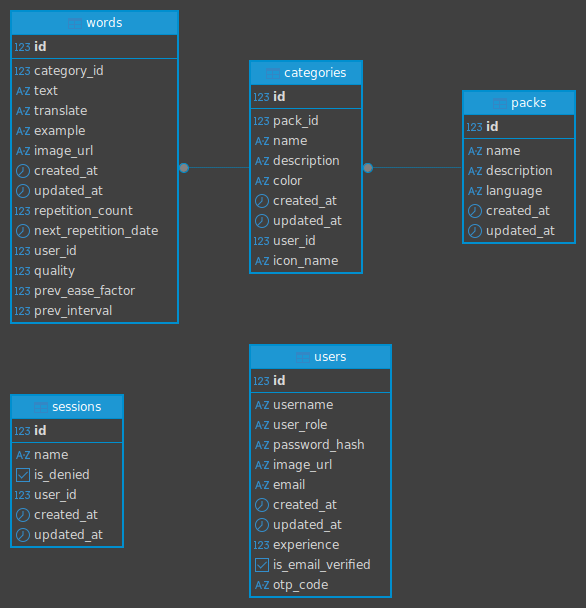
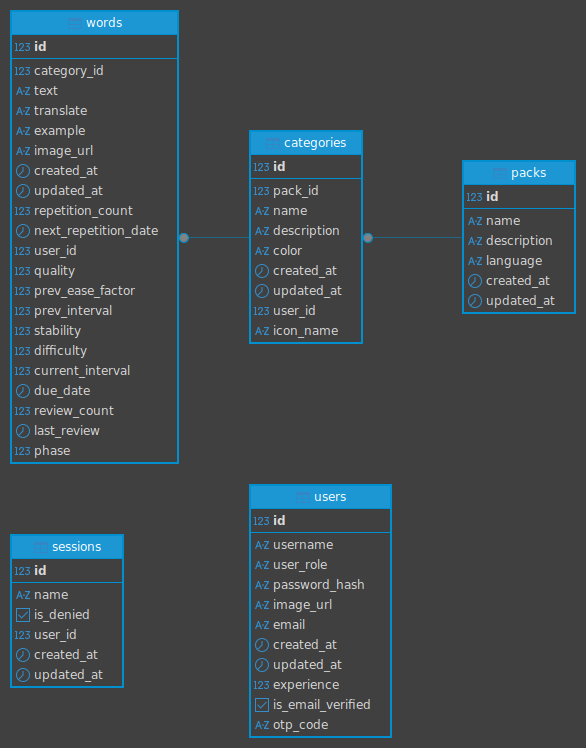
Добавил поля для таблицы words

diff --git a/module-exercise/src/test/kotlin/rest/WordControllerTest.kt b/module-exercise/src/test/kotlin/rest/WordControllerTest.kt
@@ -20,7 +20,6 @@ import org.junit.jupiter.api.DisplayName
 import org.junit.jupiter.api.MethodOrderer
 import org.junit.jupiter.api.Test
 import org.junit.jupiter.api.TestMethodOrder
-import org.mockito.ArgumentMatchers.any
 import org.mockito.ArgumentMatchers.anyLong
 import org.mockito.ArgumentMatchers.anyString
 import org.mockito.Mockito
@@ -107,7 +106,14 @@ class WordControllerTest {
             prevEaseFactor = 2.5,
             prevInterval = 0,
             createdAt = LocalDateTime.now(),
-            updatedAt = LocalDateTime.now()
+            updatedAt = LocalDateTime.now(),
+            stability = 2.5,
+            difficulty = 2.5,
+            interval = 0,
+            dueDate = LocalDateTime.now(),
+            reviewCount = 0,
+            lastReview = null,
+            phase = 0
         )
         val wordResponse2 = WordResponse(
             id = 2L,
@@ -122,7 +128,14 @@ class WordControllerTest {
             prevEaseFactor = 2.5,
             prevInterval = 0,
             createdAt = LocalDateTime.now(),
-            updatedAt = LocalDateTime.now()
+            updatedAt = LocalDateTime.now(),
+            stability = 2.5,
+            difficulty = 2.5,
+            interval = 0,
+            dueDate = LocalDateTime.now(),
+            reviewCount = 0,
+            lastReview = null,
+            phase = 0
         )
         val expectedWords = listOf(wordResponse1, wordResponse2)
 
@@ -159,7 +172,14 @@ class WordControllerTest {
             prevEaseFactor = 2.5,
             prevInterval = 0,
             createdAt = LocalDateTime.now(),
-            updatedAt = LocalDateTime.now()
+            updatedAt = LocalDateTime.now(),
+            stability = 2.5,
+            difficulty = 2.5,
+            interval = 0,
+            dueDate = LocalDateTime.now(),
+            reviewCount = 0,
+            lastReview = null,
+            phase = 0
         )
         val expectedWords = listOf(wordResponse)
 
@@ -192,7 +212,14 @@ class WordControllerTest {
             prevEaseFactor = 2.5,
             prevInterval = 0,
             createdAt = LocalDateTime.now(),
-            updatedAt = LocalDateTime.now()
+            updatedAt = LocalDateTime.now(),
+            stability = 2.5,
+            difficulty = 2.5,
+            interval = 0,
+            dueDate = LocalDateTime.now(),
+            reviewCount = 0,
+            lastReview = null,
+            phase = 0
         )
 
         Mockito.`when`(wordService.saveWord(Mockito.any(WordRequest::class.java))).thenReturn(wordResponse)
@@ -225,7 +252,14 @@ class WordControllerTest {
             prevEaseFactor = 2.5,
             prevInterval = 0,
             createdAt = LocalDateTime.now(),
-            updatedAt = LocalDateTime.now()
+            updatedAt = LocalDateTime.now(),
+            stability = 2.5,
+            difficulty = 2.5,
+            interval = 0,
+            dueDate = LocalDateTime.now(),
+            reviewCount = 0,
+            lastReview = null,
+            phase = 0
         )
         val wordResponse2 = WordResponse(
             id = 2L,
@@ -240,7 +274,14 @@ class WordControllerTest {
             prevEaseFactor = 2.5,
             prevInterval = 0,
             createdAt = LocalDateTime.now(),
-            updatedAt = LocalDateTime.now()
+            updatedAt = LocalDateTime.now(),
+            stability = 2.5,
+            difficulty = 2.5,
+            interval = 0,
+            dueDate = LocalDateTime.now(),
+            reviewCount = 0,
+            lastReview = null,
+            phase = 0
         )
         val expectedResponses = listOf(wordResponse1, wordResponse2)
 
@@ -279,7 +320,14 @@ class WordControllerTest {
             prevEaseFactor = 2.5,
             prevInterval = 0,
             createdAt = LocalDateTime.now(),
-            updatedAt = LocalDateTime.now()
+            updatedAt = LocalDateTime.now(),
+            stability = 2.5,
+            difficulty = 2.5,
+            interval = 0,
+            dueDate = LocalDateTime.now(),
+            reviewCount = 0,
+            lastReview = null,
+            phase = 0
         )
 
         Mockito.`when`(wordService.updateWord(Mockito.eq(wordId), Mockito.any(WordRequest::class.java))).thenReturn(wordResponse)

diff --git a/module-core/src/main/kotlin/dto/WordRequest.kt b/module-core/src/main/kotlin/dto/WordRequest.kt
@@ -3,6 +3,7 @@ package dev.greben.memowave.dto
 import io.swagger.v3.oas.annotations.media.Schema
 import jakarta.validation.constraints.NotBlank
 import jakarta.validation.constraints.Size
+import java.time.LocalDateTime
 
 @Schema(description = "Слово - перевод: запрос")
 data class WordRequest(
@@ -25,11 +26,25 @@ data class WordRequest(
     @Schema(description = "Количество повторений", example = "0")
     val repetitionCount: Int = 0,
     @Schema(description = "Дата следующего повторения", example = "2026-03-13T10:00:00")
-    val nextRepetitionDate: java.time.LocalDateTime?,
+    val nextRepetitionDate: LocalDateTime?,
     @Schema(description = "Качество повторения", example = "0")
     var quality: Long,
     @Schema(description = "Предыдущий коэффициент повторения", example = "2.5")
     var prevEaseFactor: Double,
     @Schema(description = "Предыдущий интервал повторения", example = "0")
-    var prevInterval: Long
+    var prevInterval: Long,
+    @Schema(description = "Параметр стабильности", example = "2.5")
+    var stability: Double,
+    @Schema(description = "Параметр сложности", example = "2.5")
+    var difficulty: Double,
+    @Schema(description = "Текущий интервал повторения", example = "0")
+    var interval: Long,
+    @Schema(description = "Дата следующего повторения", example = "2026-03-13T10:00:00")
+    var dueDate: LocalDateTime?,
+    @Schema(description = "Количество повторений", example = "0")
+    var reviewCount: Long,
+    @Schema(description = "Дата последнего повторения", example = "2026-03-13T10:00:00")
+    var lastReview: LocalDateTime?,
+    @Schema(description = "Параметр phase", example = "0")
+    var phase: Long
 )

diff --git a/module-exercise/src/main/kotlin/entities/Word.kt b/module-exercise/src/main/kotlin/entities/Word.kt
@@ -42,8 +42,23 @@ class Word(
     @Column(name = "prev_ease_factor", nullable = false)
     var prevEaseFactor: Double,
     @Column(name = "prev_interval", nullable = false)
-    var prevInterval: Long
+    var prevInterval: Long,
+    @Column(name = "stability", nullable = false)
+    var stability: Double = 2.5,
+    @Column(name = "difficulty", nullable = false)
+    var difficulty: Double = 2.5,
+    @Column(name = "current_interval", nullable = false)
+    var interval: Long = 0L,
+    @Column(name = "due_date", nullable = true)
+    var dueDate: LocalDateTime?,
+    @Column(name = "review_count", nullable = false)
+    var reviewCount: Long = 0L,
+    @Column(name = "last_review", nullable = true)
+    var lastReview: LocalDateTime?,
+    @Column(name = "phase", nullable = false)
+    var phase: Long = 0L
 ) : AbstractEntity() {
     constructor(): this(category = null, text = null, translate = null, example = null, imageUrl = null,
-        repetitionCount = 0, nextRepetitionDate = null, quality = 0, prevEaseFactor = 2.5, prevInterval = 0)
+        repetitionCount = 0, nextRepetitionDate = null, quality = 0, prevEaseFactor = 2.5, prevInterval = 0,
+        stability = 2.5, difficulty = 2.5, interval = 0, dueDate = LocalDateTime.now(), reviewCount = 0, lastReview = null, phase = 0)
 }

diff --git a/module-core/src/main/kotlin/dto/WordResponse.kt b/module-core/src/main/kotlin/dto/WordResponse.kt
@@ -32,5 +32,19 @@ data class WordResponse(
     @Schema(description = "Дата добавления слова", example = "2026-03-13T10:00:00")
     var createdAt: LocalDateTime?,
     @Schema(description = "Дата обновления слова", example = "2026-03-13T10:00:00")
-    var updatedAt: LocalDateTime?
+    var updatedAt: LocalDateTime?,
+    @Schema(description = "Параметр стабильности", example = "2.5")
+    var stability: Double,
+    @Schema(description = "Параметр сложности", example = "2.5")
+    var difficulty: Double,
+    @Schema(description = "Текущий интервал повторения", example = "0")
+    var interval: Long,
+    @Schema(description = "Дата следующего повторения", example = "2026-03-13T10:00:00")
+    var dueDate: LocalDateTime?,
+    @Schema(description = "Количество повторений", example = "0")
+    var reviewCount: Long,
+    @Schema(description = "Дата последнего повторения", example = "2026-03-13T10:00:00")
+    var lastReview: LocalDateTime?,
+    @Schema(description = "Параметр phase", example = "0")
+    var phase: Long
 )

diff --git a/module-exercise/src/main/kotlin/rest/WordController.kt b/module-exercise/src/main/kotlin/rest/WordController.kt
@@ -90,14 +90,10 @@ class WordController(
     }
 
     @Operation(summary = "Удалить слово")
-    @DeleteMapping(value = ["{wordId}"],
-        consumes = [MediaType.APPLICATION_JSON_VALUE],
-        produces = [MediaType.APPLICATION_JSON_VALUE])
+    @DeleteMapping(value = ["{wordId}"])
     @ResponseStatus(HttpStatus.NO_CONTENT)
-    fun deleteWord(
-        @PathVariable("wordId") wordId: Long
-    ) {
+    fun deleteWord(@PathVariable("wordId") wordId: Long) {
         log.info { "Удаление слова wordId=$wordId" }
-        return serviceWord.deleteWord(wordId)
+        serviceWord.deleteWord(wordId)
     }
 }

diff --git a/module-exercise/src/main/kotlin/service/CategoryService.kt b/module-exercise/src/main/kotlin/service/CategoryService.kt
@@ -189,7 +189,14 @@ class CategoryService(
                 nextRepetitionDate = LocalDateTime.now(),
                 quality = 0,
                 prevEaseFactor = 2.5,
-                prevInterval = 0
+                prevInterval = 0,
+                stability = 2.5,
+                difficulty = 2.5,
+                interval = 0,
+                dueDate = LocalDateTime.now(),
+                reviewCount = 0,
+                lastReview = null,
+                phase = 0
             )
             wordRepository.save(newWord)
         }

diff --git a/module-import-export/src/main/kotlin/service/ImportService.kt b/module-import-export/src/main/kotlin/service/ImportService.kt
@@ -72,7 +72,14 @@ class ImportService(
                         nextRepetitionDate = LocalDateTime.now(),
                         quality = 0,
                         prevEaseFactor = 2.5,
-                        prevInterval = 0)
+                        prevInterval = 0,
+                        stability = 2.5,
+                        difficulty = 2.5,
+                        interval = 0,
+                        dueDate = LocalDateTime.now(),
+                        reviewCount = 0,
+                        lastReview = null,
+                        phase = 0)
                     words.add(word)
                     log.info { "New word: $word" }
                 }